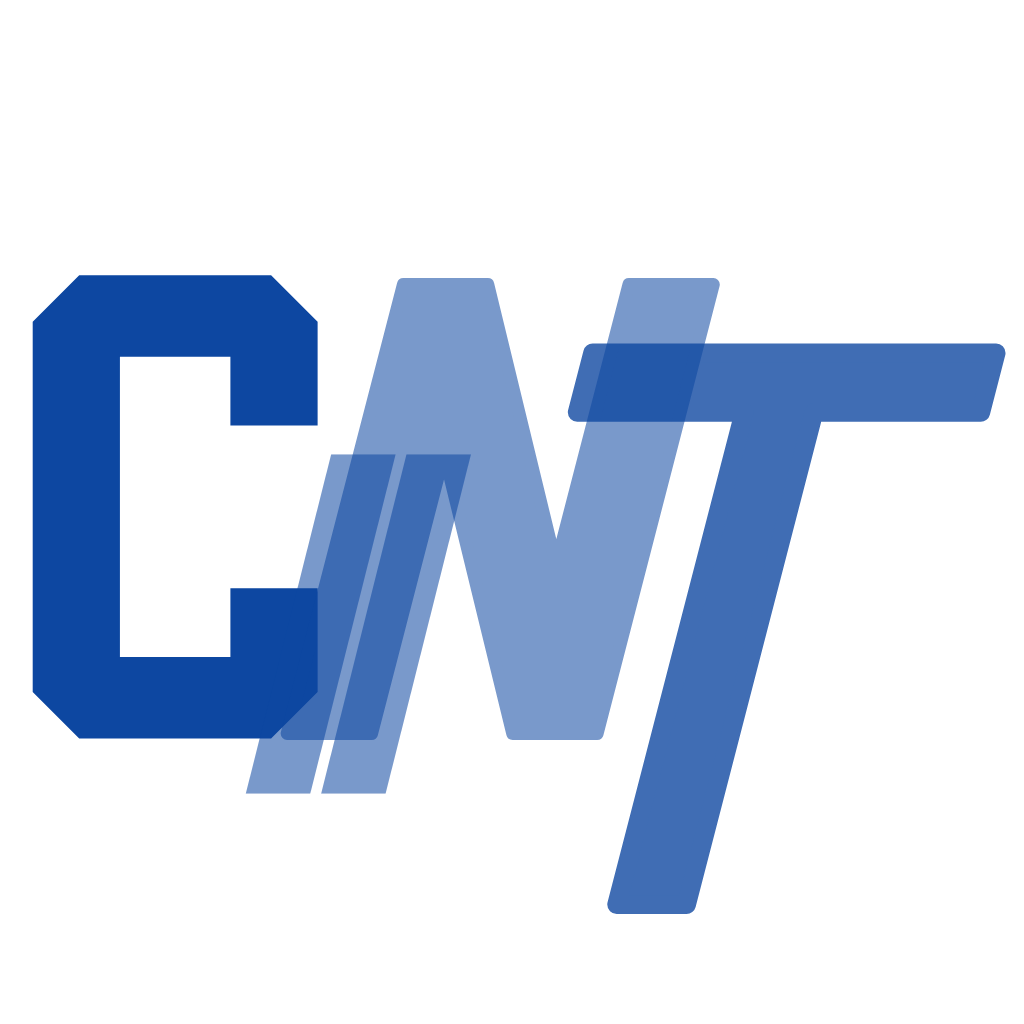
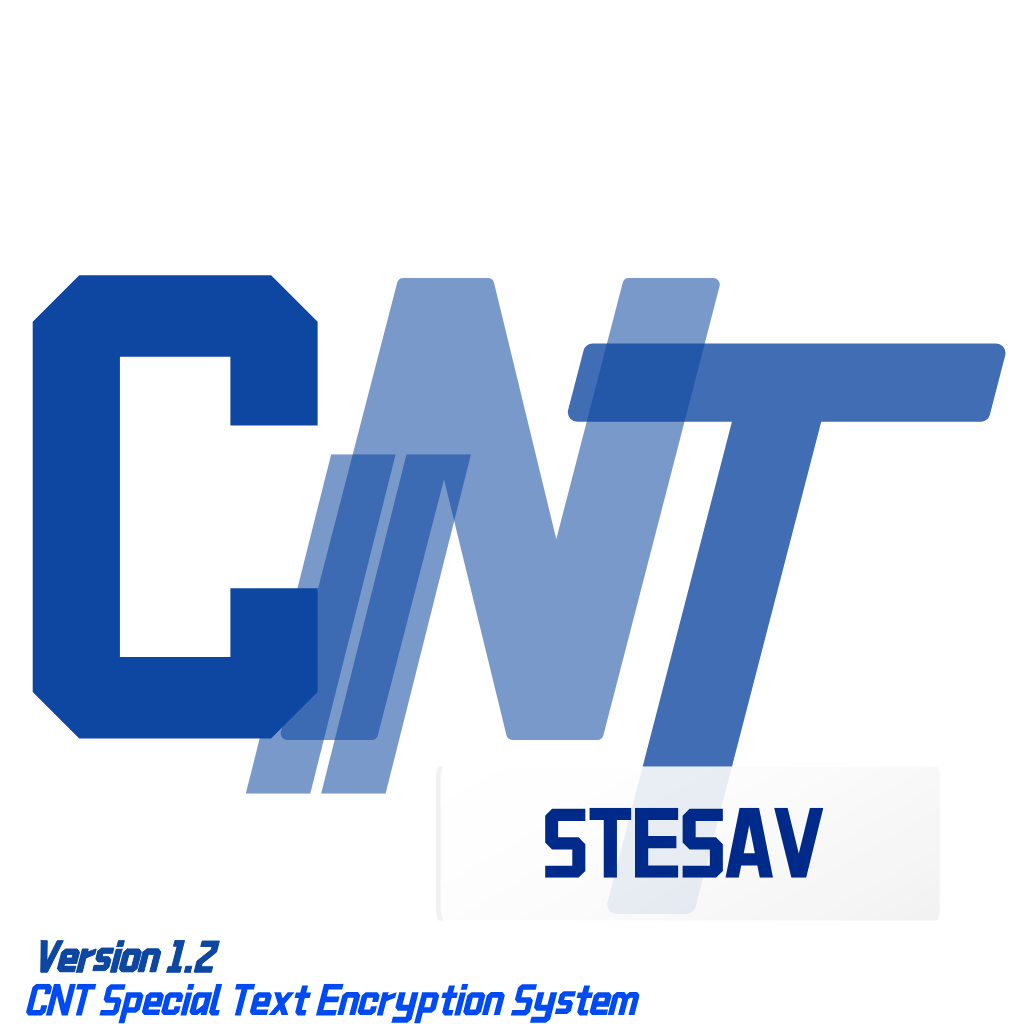
README File Update

Changed region(s): [[0.0312, 0.9062, 0.625, 1.0], [0.5312, 0.75, 0.8125, 0.9062]]

diff --git a/README.md b/README.md
@@ -1,10 +1,27 @@
 <div align="center">
 <h1>CNT STESAV</h1>
 An encryption algorithm used to protect CNT data.<br><br>
-<img src="icon.png" width="128" height="128"/><br>
+<img src="wallpage.png"/><br>
 
 [![Github](https://img.shields.io/badge/CNT-Github-gray.svg)](https://github.com/APlcexenicesetrl/CNT_STESAV) ![Developers](https://img.shields.io/badge/Developers-TaimWay-red.svg) ![Version](https://img.shields.io/badge/version-1.2-brightgreen.svg)  ![Build Status](https://img.shields.io/badge/build%20Status-Active,%20open%20source-brightgreen.svg) [![License](https://img.shields.io/badge/license-MIT-blue.svg)](https://github.com/APlcexenicesetrl/CNT_STESAV/blob/main/LICENSE)
 
 [**English**](./README.md) | [**中文简体**](./Readme(zh-cn).md)
 
 </div>
+
+---
+
+# Introduction
+
+**Welcome to use 『CNT』**
+CNT STESAV is called "CNT Special Text Encryption System Algorithm Value" and "1236787232" in Chinese.
+This is a system algorithm for data protection against the CNT series, and this data protection algorithm is open,
+but the reverse destruction of non-open source algorithms is prohibited.
+
+**Warning**
+CNT STESAV was developed by TaimWay to provide encryption algorithms for CNT series.
+To some extent, some of these algorithms will be used in public.
+This algorithm is licensed by MIT, anyone can use, forward, (twice) change the STESAV algorithm.
+
+**License**
+ MIT license, which allows you to use, view, and modify.
